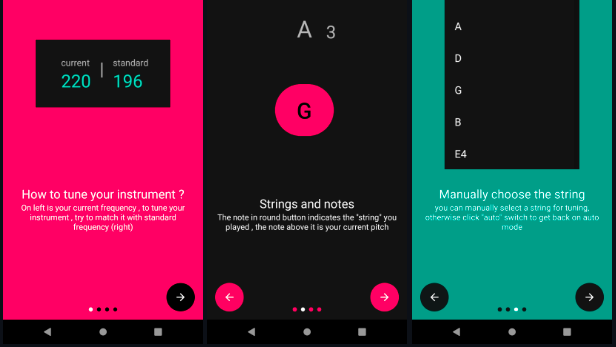
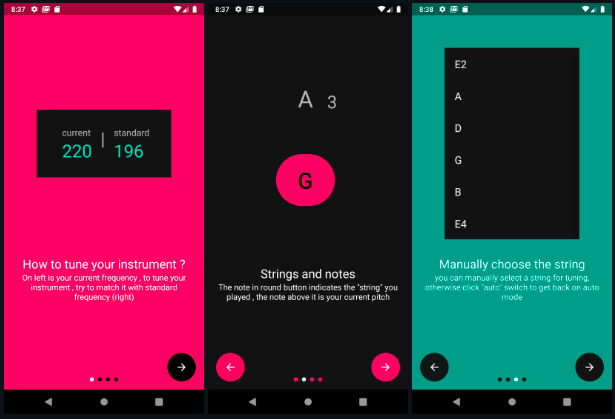
better project images auto height and width changed layout to fill , wil need to test whether layout fill is optimised or not

diff --git a/components/Software/Projects.js b/components/Software/Projects.js
@@ -88,12 +88,10 @@ const Entry = ({entry}) => {
             </div>
 
             <div className="contentdiv">
-                <div style={{position:"relative", "width": "70%", "height":"fit-content" }}>
+                <div className="unset-img">
                     <Image
-                    layout="responsive"
-                    height={25}
-                    width={40}
-                    className="contentImg projectImg" src={img} alt=""/>
+                    layout="fill"
+                    className="contentImg custom-img" src={img} alt=""/>
                 </div>
             </div>
         </div>

diff --git a/styles/Projects.css b/styles/Projects.css
@@ -1,6 +1,18 @@
-/* .projectImg{
-    max-width: 80%;
-} */
+.custom-img {
+    object-fit: contain;
+    width: 100% !important;
+    position: relative !important;
+    height: unset !important;
+}
+  
+.unset-img {
+    width: 80%;
+    padding: 10px;
+}
+
+.unset-img > div {
+    position: unset !important;
+}
 
 .projects{
     display: flex;
@@ -13,7 +25,6 @@
 .project{
     border: 1px rgb(182, 182, 182) solid;
     border-radius: 5px;
-
     background: rgb(27, 26, 26);
     color: rgb(233, 233, 233);
 }
